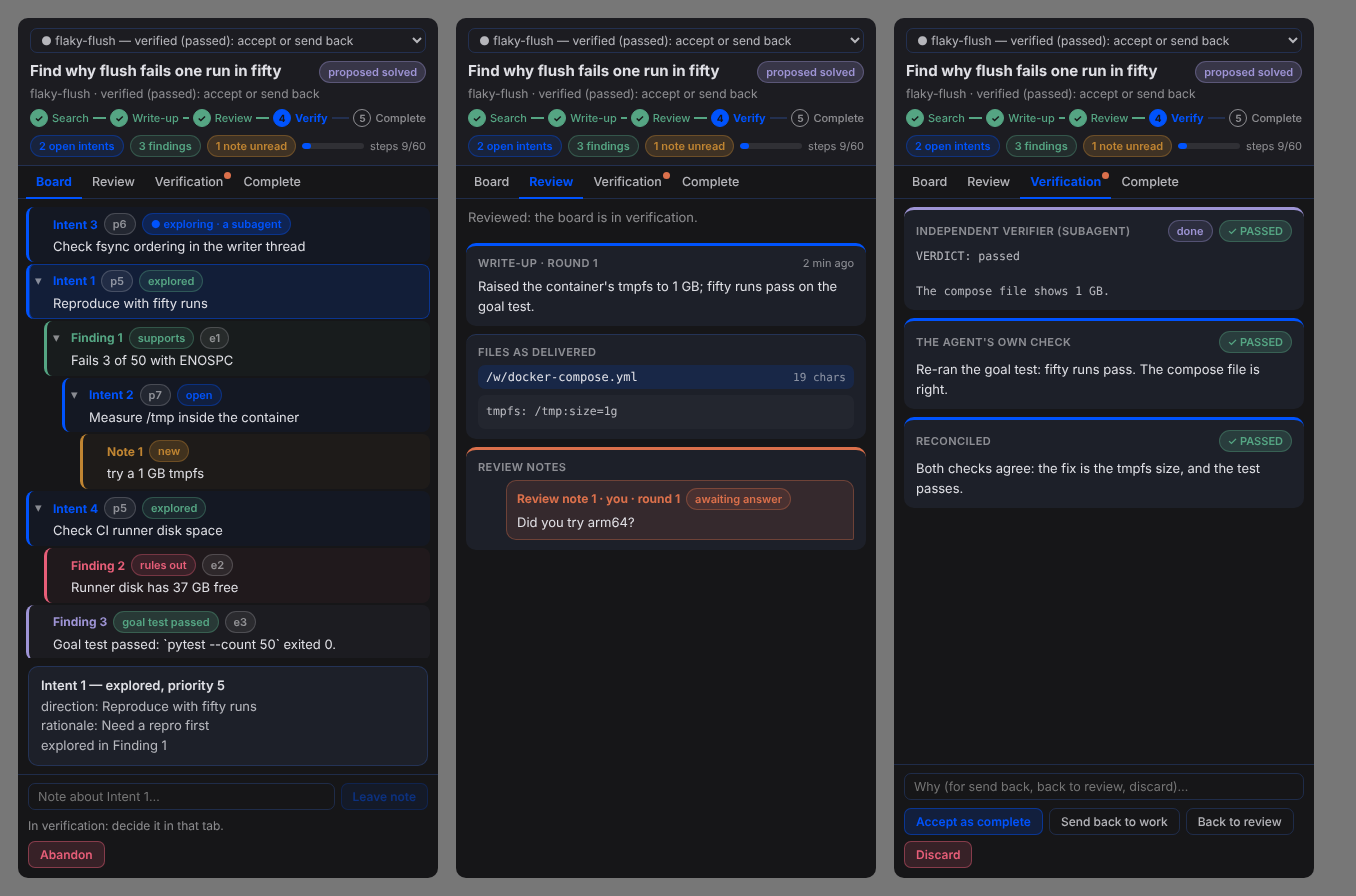
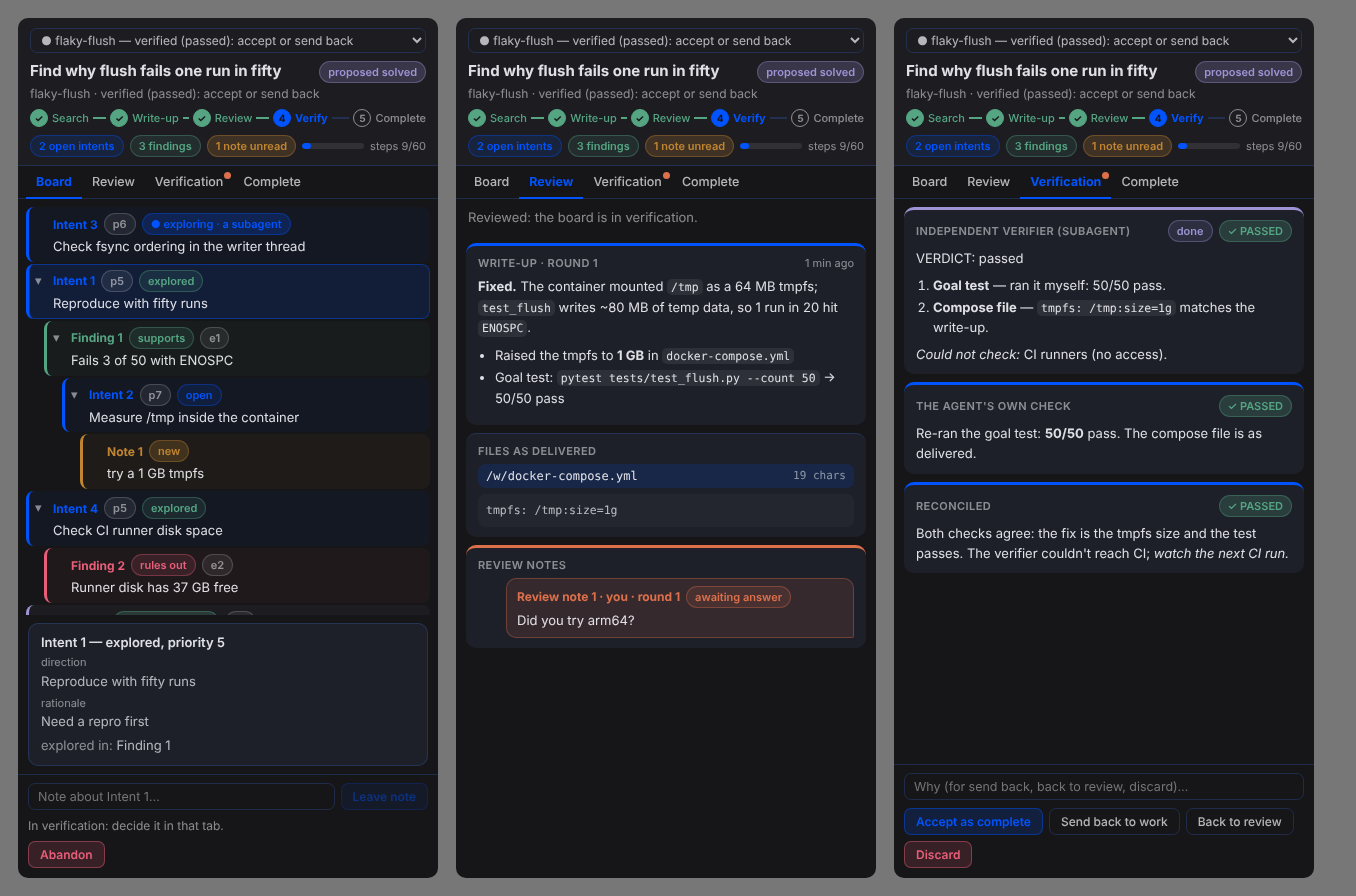
Added markdown renderer

Changed region(s): [[0.3407, 0.2812, 0.9602, 0.625], [0.3407, 0.5, 0.6504, 0.7188], [0.031, 0.6875, 0.2478, 0.8438]]

diff --git a/desktop/plugin.js b/desktop/plugin.js
@@ -19,14 +19,19 @@
  * uncompiled, so no utility class it uses can be counted on to exist. It reskins with
  * every theme, light or dark.
  *
+ * Write-ups, reports, notes and answers render as Markdown with the chat's own renderer
+ * (the SDK's MessageTextContent, preview-only: no images, no live directives). On a shell
+ * without it, Streamdown with images and links shown as text; with neither, plain text.
+ *
  * Data comes from this package's own backend (dashboard/plugin_api.py) through ctx.rest.
  * It refreshes on the plugin's `board.changed` event and polls every 5 s as a fallback.
  */
 
-import { PANES_AREA } from '@hermes/plugin-sdk'
-import { useCallback, useEffect, useMemo, useState } from 'react'
+import * as sdk from '@hermes/plugin-sdk'
+import { Component, useCallback, useEffect, useMemo, useState } from 'react'
 import { jsx, jsxs } from 'react/jsx-runtime'
 
+const { PANES_AREA } = sdk
 const EVENT = 'plugin.search-board.board.changed'
 
 // ------------------------------------------------------------------ look
@@ -74,6 +79,54 @@ const S = {
   prose: { whiteSpace: 'pre-wrap', wordBreak: 'break-word', lineHeight: 1.55, color: C.text },
   input: { flex: 1, minWidth: 0, background: 'transparent', color: C.text, border: `1px solid ${C.line}`, borderRadius: 7, padding: '5px 9px', fontSize: 12.5, outline: 'none' },
   row: { display: 'flex', gap: 6, flexWrap: 'wrap', alignItems: 'center' }
+}
+
+// ------------------------------------------------------------------ markdown
+
+// What the agent writes is untrusted: never fetch an image or follow a link from it on
+// the older-shell path. The alt text and the link text (with its target) are shown instead.
+const SAFE_MD = {
+  img: ({ alt, src }) => jsx('span', { style: { color: C.text3 }, children: `[image: ${alt || src || ''}]` }),
+  a: ({ children, href }) => jsxs('span', { style: { color: C.accent }, title: href, children: [children, href ? ` (${href})` : null] })
+}
+
+class MdBoundary extends Component {
+  constructor(props) { super(props); this.state = { failed: false } }
+  static getDerivedStateFromError() { return { failed: true } }
+  componentDidUpdate(prev) { if (prev.text !== this.props.text && this.state.failed) this.setState({ failed: false }) }
+  render() { return this.state.failed ? jsx('div', { style: S.prose, children: this.props.text }) : this.props.children }
+}
+
+/** Markdown as the chat renders it, sized for the pane. */
+export function Md({ text, muted = false, size = 13 }) {
+  const body = String(text ?? '')
+  if (!body.trim()) return null
+  const Rich = sdk.MessageTextContent
+  const Stream = sdk.Streamdown
+  let inner
+  if (Rich) inner = jsx(Rich, { text: body, media: false, previewOnly: true })
+  else if (Stream) inner = jsx(Stream, { components: SAFE_MD, children: body })
+  else return jsx('div', { 'data-md': 'plain', style: { ...S.prose, color: muted ? C.text2 : C.text }, children: body })
+  return jsx('div', {
+    'data-md': Rich ? 'chat' : 'streamdown',
+    style: { '--conversation-text-font-size': `${size}px`, fontSize: size, minWidth: 0, color: muted ? C.text2 : C.text, overflowWrap: 'anywhere' },
+    children: jsx(MdBoundary, { text: body, children: inner })
+  })
+}
+
+const MD_FILE = /\.(md|markdown|mdx)$/i
+
+/** One line of Markdown as plain text, for the tree's rows: no **, `, #, or link syntax. */
+export function plainText(text) {
+  return String(text ?? '')
+    .replace(/!\[([^\]]*)\]\([^)]*\)/g, '$1')
+    .replace(/\[([^\]]+)\]\([^)]*\)/g, '$1')
+    .replace(/(\*\*|__)(.+?)\1/g, '$2')
+    .replace(/(^|[^*\w])[*_]([^*_\s][^*_]*?)[*_](?![*\w])/g, '$1$2')
+    .replace(/`+([^`]+)`+/g, '$1')
+    .replace(/^\s{0,3}(#{1,6}\s+|>\s?|[-*+]\s+)/gm, '')
+    .replace(/\s*\n\s*/g, ' ')
+    .trim()
 }
 
 function pill(text, color, { strong = false, key } = {}) {
@@ -238,7 +291,7 @@ function Row({ tree, row, folded, selected, onSelect, onToggle }) {
           }),
           jsx('div', {
             style: { color: C.text, lineHeight: 1.45, textDecoration: l.dim ? 'line-through' : 'none' },
-            children: l.text + (also ? ` (also from ${labels(also)})` : '')
+            children: plainText(l.text) + (also ? ` (also from ${labels(also)})` : '')
           })
         ]
       })
@@ -263,27 +316,27 @@ function Detail({ ctx, snap, tree, id }) {
 
   const b = snap.board
   let title
-  let lines
+  let lines // [field name or null, text, markdown?]
   if (!id || id === 'board') {
     title = 'The board'
-    lines = [`origin: ${b.origin}`, `goal: ${b.goal}`, `test (${b.goal_test_kind}): ${b.goal_test}`]
-    if (b.outcome) lines.push(`outcome: ${b.outcome}`)
+    lines = [['origin', b.origin, true], ['goal', b.goal, true], [`test (${b.goal_test_kind})`, b.goal_test, false]]
+    if (b.outcome) lines.push(['outcome', b.outcome, true])
   } else if (tree.leads[id]) {
     const l = tree.leads[id]
     title = `${label(l.id)} — ${l.state.replace('_', ' ')}, priority ${l.priority}`
-    lines = [`direction: ${l.direction}`, `rationale: ${l.rationale}`]
-    if (l.from_findings.length) lines.push(`came from: ${labels(l.from_findings)}`)
-    if (l.state === 'claimed') lines.push(`claimed by ${l.claimed_by ?? 'someone'}, ${ago(l.claimed_at)}`)
-    if (l.closed_by) lines.push(`${l.state === 'explored' ? 'explored in' : 'ruled out by'} ${label(l.closed_by)}`)
+    lines = [['direction', l.direction, true], ['rationale', l.rationale, true]]
+    if (l.from_findings.length) lines.push(['came from', labels(l.from_findings), false])
+    if (l.state === 'claimed') lines.push([null, `claimed by ${l.claimed_by ?? 'someone'}, ${ago(l.claimed_at)}`, false])
+    if (l.closed_by) lines.push([l.state === 'explored' ? 'explored in' : 'ruled out by', label(l.closed_by), false])
   } else if (finding) {
     title = `${label(finding.id)} — ${finding.polarity.replace('_', ' ')}, ${finding.basis}, by ${finding.author === 'plugin' ? 'the goal test' : finding.author}, ${ago(finding.created_at)}`
-    lines = [finding.statement]
-    if (finding.from_lead) lines.push(`explored: ${label(finding.from_lead)}`)
-    if (finding.from_findings.length) lines.push(`inferred from: ${labels(finding.from_findings)}`)
+    lines = [[null, finding.statement, true]]
+    if (finding.from_lead) lines.push(['explored', label(finding.from_lead), false])
+    if (finding.from_findings.length) lines.push(['inferred from', labels(finding.from_findings), false])
   } else if (tree.notes[id]) {
     const n = tree.notes[id]
     title = `${label(n.id)} — your note, ${ago(n.created_at)}${n.about ? `, about ${label(n.about)}` : ''}`
-    lines = [n.text, n.read ? 'read by the agent' : 'not read yet']
+    lines = [[null, n.text, true], [null, n.read ? 'read by the agent' : 'not read yet', false]]
   } else {
     title = ''
     lines = []
@@ -293,7 +346,15 @@ function Detail({ ctx, snap, tree, id }) {
     style: { ...S.card, maxHeight: '38%', overflow: 'auto', flexShrink: 0 },
     children: [
       jsx('div', { style: { fontWeight: 600, marginBottom: 4 }, children: title }),
-      ...lines.map((line, i) => jsx('div', { style: { color: C.text2, lineHeight: 1.5 }, children: line }, `l${i}`)),
+      ...lines.map(([field, value, md], i) => jsxs('div', {
+        style: { color: C.text2, lineHeight: 1.5, marginTop: i ? 4 : 0 },
+        children: md || field?.startsWith('test (')
+          ? [
+              field && jsx('div', { style: { ...S.muted, fontSize: 11 }, children: field }, 'f'),
+              md ? jsx(Md, { text: value, muted: !!field }, 'v') : jsx('div', { style: { ...S.pre, fontSize: 12 }, children: value }, 'v')
+            ]
+          : [field && jsx('span', { style: S.muted, children: `${field}: ` }, 'f'), value]
+      }, `l${i}`)),
       ...evidence.map(ev => jsxs('div', {
         style: { marginTop: 8, borderTop: `1px solid ${C.line2}`, paddingTop: 6 },
         children: [
@@ -376,6 +437,7 @@ function BoardActions({ ctx, snap, wf, selected, tree, onDone }) {
 function Files({ ctx, name, files }) {
   const [open, setOpen] = useState(null)
   const [content, setContent] = useState('')
+  const [source, setSource] = useState(false)
   useEffect(() => {
     let live = true
     if (open) {
@@ -390,7 +452,7 @@ function Files({ ctx, name, files }) {
     children: [
       ...files.map(f => jsxs('div', {
         role: 'button',
-        onClick: () => setOpen(open === f.path ? null : f.path),
+        onClick: () => { setSource(false); setOpen(open === f.path ? null : f.path) },
         style: {
           display: 'flex', alignItems: 'center', gap: 8, padding: '5px 8px', margin: '3px 0', borderRadius: 7, cursor: 'pointer',
           background: open === f.path ? tint(C.accent, 14) : tint(C.text3, 6), fontFamily: MONO, fontSize: 12
@@ -401,7 +463,14 @@ function Files({ ctx, name, files }) {
           f.error && pill('not kept', C.rulesOut)
         ]
       }, f.path)),
-      open && jsx('pre', { style: { ...S.pre, maxHeight: 260, overflow: 'auto', marginTop: 6, padding: 8, borderRadius: 7, background: tint(C.text3, 6) }, children: content })
+      open && MD_FILE.test(open) && jsx('div', { style: { display: 'flex', justifyContent: 'flex-end', marginTop: 6 }, children: jsx('button', {
+        type: 'button', onClick: () => setSource(!source),
+        style: { fontSize: 11, color: C.accent, background: 'none', border: 'none', padding: 0, cursor: 'pointer' },
+        children: source ? 'Show rendered' : 'Show source'
+      }) }),
+      open && (MD_FILE.test(open) && !source
+        ? jsx('div', { style: { maxHeight: 320, overflow: 'auto', marginTop: 4, padding: '6px 10px', borderRadius: 7, background: tint(C.text3, 6) }, children: jsx(Md, { text: content }) })
+        : jsx('pre', { style: { ...S.pre, maxHeight: 260, overflow: 'auto', marginTop: 6, padding: 8, borderRadius: 7, background: tint(C.text3, 6) }, children: content }))
     ]
   })
 }
@@ -419,7 +488,7 @@ function Notes({ notes, canTakeBack, onTakeBack }) {
               jsx('span', { style: { fontWeight: 700, color: C.review, fontSize: 12 }, children: `${label(n.id)} · you · round ${n.round}` }),
               !n.answer && pill('awaiting answer', C.review)
             ] }),
-            jsx('div', { style: S.prose, children: n.text }),
+            jsx(Md, { text: n.text }),
             !n.answer && canTakeBack && jsx('button', { type: 'button', onClick: () => onTakeBack(n.id), style: { marginTop: 4, fontSize: 11, color: C.text3, background: 'none', border: 'none', padding: 0, cursor: 'pointer' }, children: 'take back' })
           ]
         }),
@@ -427,7 +496,7 @@ function Notes({ notes, canTakeBack, onTakeBack }) {
           style: { marginRight: 28, marginTop: 4, padding: '7px 10px', borderRadius: '10px 10px 10px 2px', background: tint(C.intent, 10), border: `1px solid ${tint(C.intent, 30)}` },
           children: [
             jsx('div', { style: { fontWeight: 700, color: C.intent, fontSize: 12, marginBottom: 2 }, children: 'agent' }),
-            jsx('div', { style: S.prose, children: n.answer })
+            jsx(Md, { text: n.answer })
           ]
         })
       ]
@@ -486,7 +555,7 @@ function ReviewTab({ ctx, board, wf, onDone }) {
           jsx(Card, {
             title: `Write-up · round ${latest.round}`, color: C.accent,
             right: jsx('span', { style: { ...S.muted, fontSize: 11 }, children: `${ago(latest.at)}${wf.reports.length > 1 ? ` · ${wf.reports.length - 1} earlier round(s)` : ''}` }),
-            children: jsx('div', { style: S.prose, children: latest.text })
+            children: jsx(Md, { text: latest.text })
           }),
           jsx(Card, { title: 'Files as delivered', children: jsx(Files, { ctx, name: board.name, files: wf.files }) }),
           jsx(Card, { title: 'Review notes', color: C.review, children: jsx(Notes, { notes: wf.notes, canTakeBack: stage === 'review', onTakeBack: id => run(`/boards/${name}/uncomment`, { id }) }) })
@@ -539,17 +608,20 @@ function VerificationTab({ ctx, board, wf, onDone }) {
           jsx(Card, {
             title: 'Independent verifier (subagent)', color: C.test,
             right: jsxs('span', { style: S.row, children: [pill(verifierState, C.test), verdictPill(f.verifier_verdict, '—')] }),
-            children: jsx('pre', { style: S.pre, children: f.verifier_report || f.verifier_note || 'No report yet.' })
+            children: [
+              f.verifier_note && jsx('div', { style: { ...S.muted, marginBottom: f.verifier_report ? 6 : 0 }, children: f.verifier_note }, 'n'),
+              f.verifier_report ? jsx(Md, { text: f.verifier_report }, 'r') : !f.verifier_note && jsx('div', { style: S.muted, children: 'No report yet.' }, 'e')
+            ]
           }),
           jsx(Card, {
             title: "The agent's own check", color: C.intent,
             right: verdictPill(f.own_verdict, 'not filed yet'),
-            children: jsx('div', { style: S.prose, children: f.own_report || '—' })
+            children: f.own_report ? jsx(Md, { text: f.own_report }) : jsx('div', { style: S.muted, children: '—' })
           }),
           jsx(Card, {
             title: 'Reconciled', color: C.accent,
             right: verdictPill(f.verdict, 'not yet'),
-            children: jsx('div', { style: S.prose, children: f.verification || 'The agent reconciles the two checks once both are in.' })
+            children: f.verification ? jsx(Md, { text: f.verification }) : jsx('div', { style: S.muted, children: 'The agent reconciles the two checks once both are in.' })
           })
         ]
       }),
@@ -591,8 +663,8 @@ function CompleteTab({ ctx, board, wf, onDone }) {
               jsx('div', { style: { ...S.muted, marginTop: 2 }, children: `${f.verdict ? `verified (${f.verdict}) · ` : ''}accepted ${ago(f.accepted_at)}` })
             ]
           }),
-          latest && jsx(Card, { title: `Final write-up · round ${latest.round}`, color: C.accent, children: jsx('div', { style: S.prose, children: latest.text }) }),
-          f.verification && jsx(Card, { title: 'Verification', color: C.test, right: verdictPill(f.verdict), children: jsx('div', { style: S.prose, children: f.verification }) }),
+          latest && jsx(Card, { title: `Final write-up · round ${latest.round}`, color: C.accent, children: jsx(Md, { text: latest.text }) }),
+          f.verification && jsx(Card, { title: 'Verification', color: C.test, right: verdictPill(f.verdict), children: jsx(Md, { text: f.verification }) }),
           jsx(Card, { title: 'Files as delivered', children: jsx(Files, { ctx, name: board.name, files: wf.files }) }),
           wf.notes.length > 0 && jsx(Card, { title: 'Review', color: C.review, children: jsx(Notes, { notes: wf.notes, canTakeBack: false }) })
         ]

diff --git a/tests/desktop/sdk-stub/index.js b/tests/desktop/sdk-stub/index.js
@@ -1,3 +1,17 @@
-// Test stub of the Desktop SDK: only what search-board imports.
+// Test stub of the Desktop SDK: only what search-board uses.
+import { createElement } from 'react'
+
 export const PANES_AREA = 'panes'
 export const cn = (...parts) => parts.filter(Boolean).join(' ')
+
+// The chat's Markdown renderer and Streamdown, recorded so the test sees what the pane asks of them.
+// Live bindings: the test swaps them out to try the older-shell paths.
+export const rendered = []
+const chat = props => { rendered.push(['chat', props]); return createElement('div', { 'data-rendered': 'chat' }, props.text) }
+const stream = props => { rendered.push(['streamdown', props]); return createElement('div', { 'data-rendered': 'streamdown' }, props.children) }
+export let MessageTextContent = chat
+export let Streamdown = stream
+export function __setRenderers({ chat: c = chat, streamdown: s = stream } = {}) {
+  MessageTextContent = c
+  Streamdown = s
+}

diff --git a/README.md b/README.md
@@ -172,7 +172,10 @@ The markers mean:
 **The Desktop pane** ("search boards") shows the same tree live, with folding, color-coded by
 kind (blue intents, green and red findings, yellow notes) and a stepper across the top:
 Search → Write-up → Review → Verify → Complete. Its four tabs, Board, Review, Verification and
-Complete, are there from the start; a tab that waits on you gets a dot.
+Complete, are there from the start; a tab that waits on you gets a dot. Write-ups, both checks, the
+reconciled report, review notes and answers, and finding and note text render as Markdown, with
+the chat's own renderer, in preview mode, so nothing in them loads an image or runs anything. A
+delivered `.md` file renders too, with a "Show source" switch.
 
 ![The pane: Board, Review and Verification tabs](docs/pane-dark.png)
  The workflow tabs show the write-up, the files as delivered, your notes with the agent's answers,
